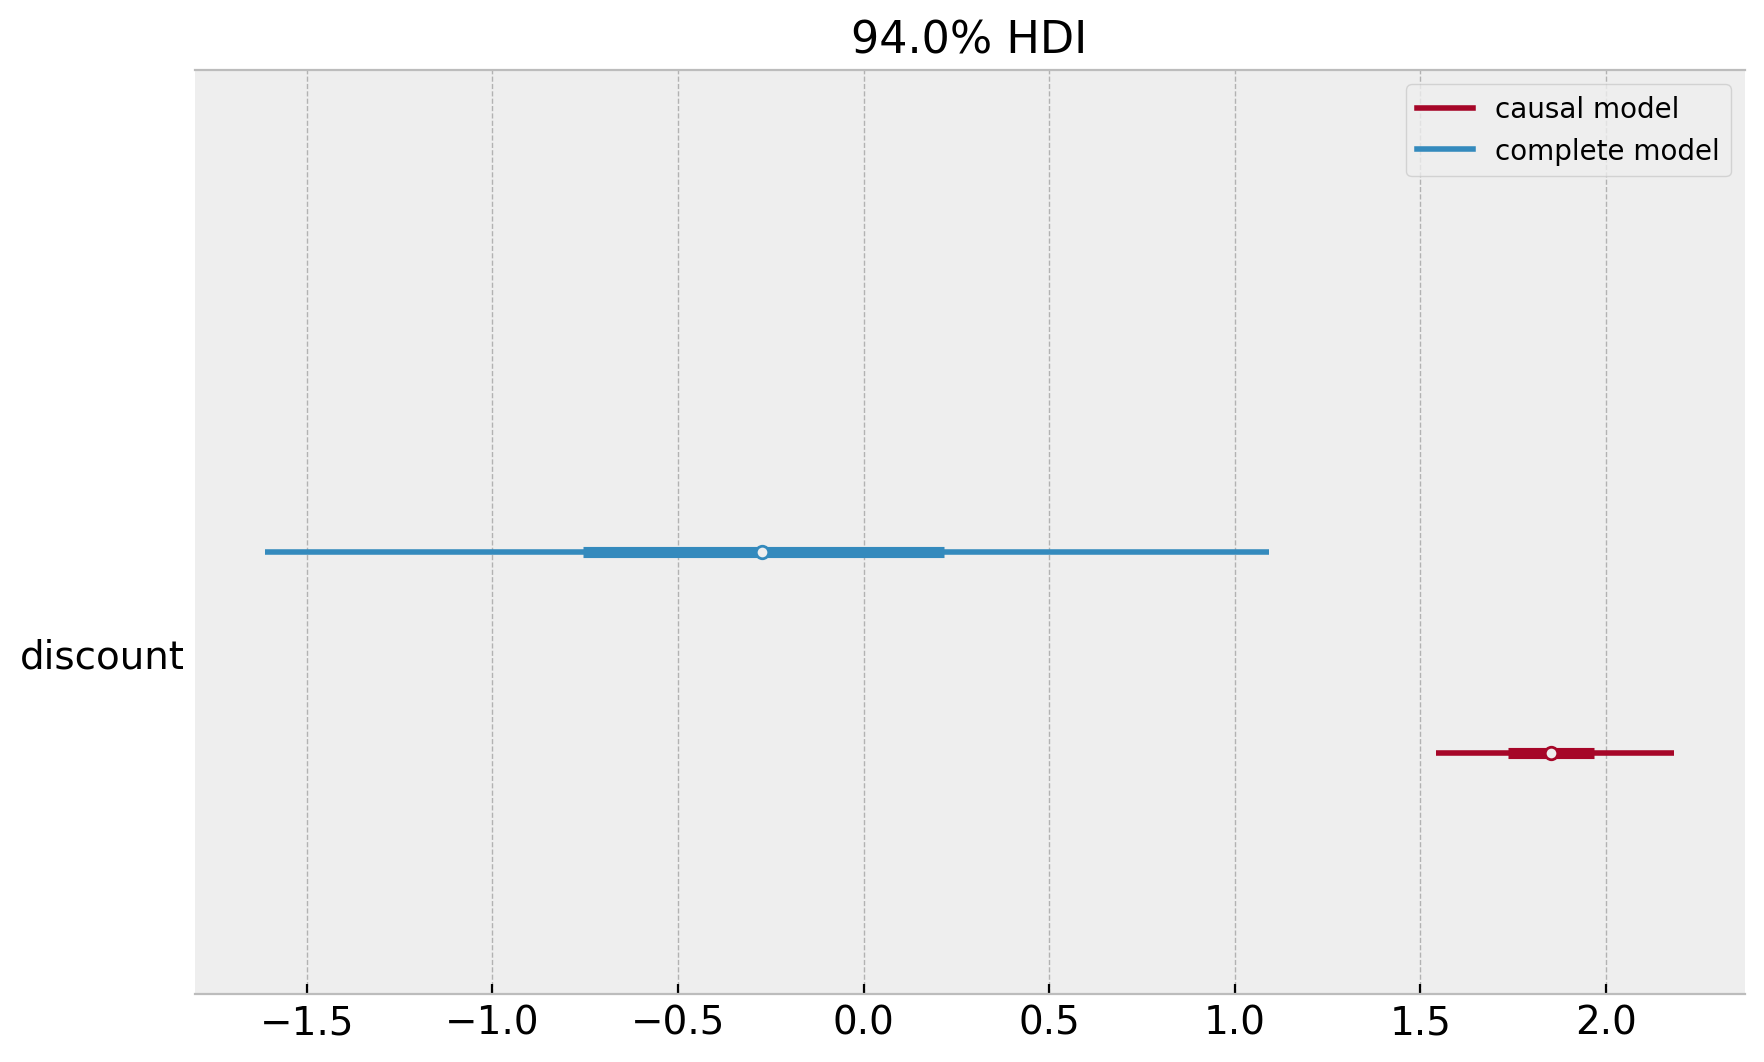
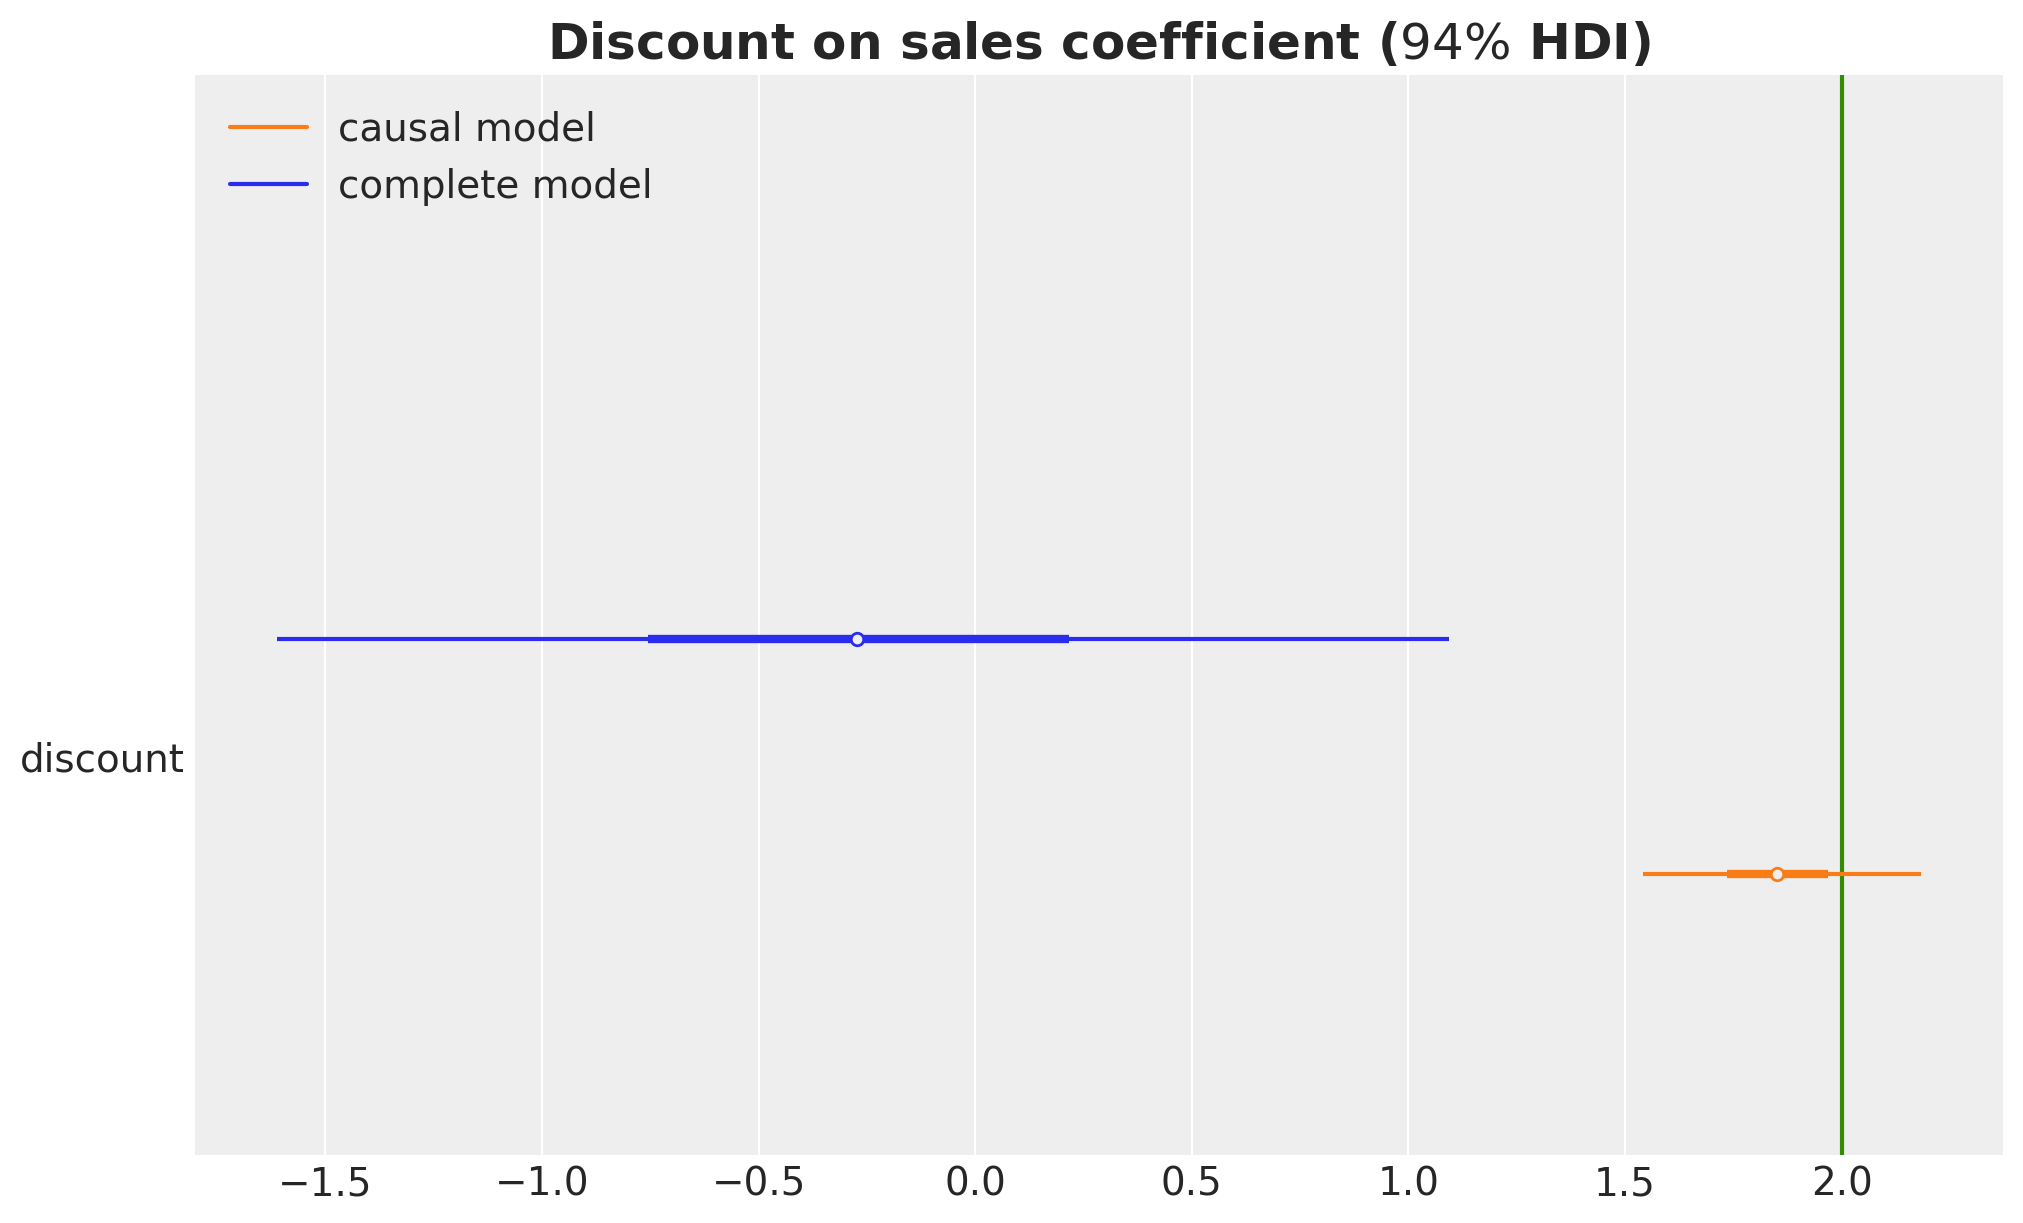
update code style causal inference example

diff --git a/causal_inference_example/index.html b/causal_inference_example/index.html
@@ -139,7 +139,7 @@ from sklearn.ensemble import GradientBoostingRegressor
 from sklearn.inspection import PartialDependenceDisplay
 from sklearn.model_selection import RandomizedSearchCV
 
-plt.style.use(&quot;bmh&quot;)
+z.style.use(&quot;arviz-darkgrid&quot;)
 plt.rcParams[&quot;figure.figsize&quot;] = [10, 6]
 plt.rcParams[&quot;figure.dpi&quot;] = 100
 plt.rcParams[&quot;figure.facecolor&quot;] = &quot;white&quot;
@@ -658,10 +658,10 @@ Name: sales, dtype: float64</code></pre>
 <pre class="python"><code>g = sns.displot(
     data=data, x=&quot;sales&quot;, kind=&quot;hist&quot;, kde=True, fill=True, height=5, aspect=1.5
 )
-g.fig.suptitle(&quot;Sales Distribution&quot;, y=1.05, fontsize=16)
+g.fig.suptitle(&quot;Sales Distribution&quot;, y=1.05, fontsize=18, fontweight=&quot;bold&quot;)
 </code></pre>
 <center>
-<img src="../images/causal_inference_example_files/causal_inference_example_19_1.png" style="width: 900px;"/>
+<img src="../images/causal_inference_example_files/causal_inference_example_19_2.png" style="width: 900px;"/>
 </center>
 </div>
 <div id="descriptive-statistics" class="section level2">
@@ -677,9 +677,11 @@ g.fig.suptitle(&quot;Sales Distribution&quot;, y=1.05, fontsize=16)
     height=5,
     aspect=1.5,
 )
-g.fig.suptitle(&quot;Sales Distribution by Discount Group&quot;, y=1.05, fontsize=16)</code></pre>
+g.fig.suptitle(
+    &quot;Sales Distribution by Discount Group&quot;, y=1.05, fontsize=18, fontweight=&quot;bold&quot;
+)</code></pre>
 <center>
-<img src="../images/causal_inference_example_files/causal_inference_example_22_1.png" style="width: 900px;"/>
+<img src="../images/causal_inference_example_files/causal_inference_example_22_2.png" style="width: 900px;"/>
 </center>
 <p>It looks customers with discount have higher sales. Data scientist A is optimistic with this initial result. To quantify this, they computed the difference in means:</p>
 <pre class="python"><code>data.groupby([&quot;discount&quot;]).agg({&quot;sales&quot;: &quot;mean&quot;})
@@ -745,9 +747,9 @@ discount
 <p>Wow! We see <span class="math inline">\(4.8\$\)</span> mean uplift! This is great news. The discount strategy seems to be working. Data scientist A is happy with the results and decides to get feedback from the rest of the data science team.</p>
 <p>Data scientist B is not so happy with the results. They think that the uplift is too good to be true (based on domain knowledge and the sales distributions 🤔). When thinking about reasons for such a high uplift, they realized the discount assignment was not at random. It was based on the number of web visits (remember the marketing plan?). This means that the discount group is not comparable to the control group completely! They decide to plot sales against web visits per discount group:</p>
 <pre class="python"><code>g = sns.relplot(data=data, x=&quot;visits&quot;, y=&quot;sales&quot;, hue=&quot;is_loyal&quot;, col=&quot;discount&quot;)
-g.fig.suptitle(&quot;Sales vs. Visits&quot;, y=1.05, fontsize=16)</code></pre>
+g.fig.suptitle(&quot;Sales vs. Visits&quot;, y=1.05, fontsize=18, fontweight=&quot;bold&quot;)</code></pre>
 <center>
-<img src="../images/causal_inference_example_files/causal_inference_example_27_1.png" style="width: 1000px;"/>
+<img src="../images/causal_inference_example_files/causal_inference_example_27_2.png" style="width: 1000px;"/>
 </center>
 <p>Indeed, they realize they should probably adjust for the number of web visits. A natural metric is sales per web visit. Let’s compute it:</p>
 <pre class="python"><code>data.groupby([&quot;discount&quot;]).agg({&quot;sales_per_visit&quot;: &quot;mean&quot;})
@@ -817,10 +819,13 @@ discount
     aspect=1.5,
 )
 g.fig.suptitle(
-    &quot;Sales per Web Visits Distribution by Discount Group&quot;, y=1.05, fontsize=16
+    &quot;Sales per Web Visits Distribution by Discount Group&quot;,
+    y=1.05,
+    fontsize=18,
+    fontweight=&quot;bold&quot;,
 )</code></pre>
 <center>
-<img src="../images/causal_inference_example_files/causal_inference_example_31_1.png" style="width: 900px;"/>
+<img src="../images/causal_inference_example_files/causal_inference_example_31_2.png" style="width: 900px;"/>
 </center>
 <p>For both data scientist the results look much better, but they were unsure about which uplift to report. They thought about the difference in means:</p>
 <pre class="python"><code>(
@@ -852,10 +857,12 @@ for i, ax in enumerate(g.axes.flatten()):
         )
         ax.legend(loc=&quot;upper right&quot;)
 
-g.fig.suptitle(&quot;Sales distribution by discount and loyalty&quot;, y=1.05, fontsize=16)
+g.fig.suptitle(
+    &quot;Sales distribution by discount and loyalty&quot;, y=1.05, fontsize=18, fontweight=&quot;bold&quot;
+)
 </code></pre>
 <center>
-<img src="../images/causal_inference_example_files/causal_inference_example_35_1.png" style="width: 1000px;"/>
+<img src="../images/causal_inference_example_files/causal_inference_example_35_2.png" style="width: 1000px;"/>
 </center>
 <p>Ok! This was shocking! They saw that for the loyal customers the sales are much (much!) higher for the non-discounted group! How could this be? Could it be that the discount strategy is working only for non-loyal customers? According to the plot above, filtering for non loyal customers would yield to a positive uplift:</p>
 <pre class="python"><code>(
@@ -889,10 +896,13 @@ for i, ax in enumerate(g.axes.flatten()):
         ax.legend(loc=&quot;upper right&quot;)
 
 g.fig.suptitle(
-    &quot;Sales per visit distribution by discount and loyalty&quot;, y=1.05, fontsize=16
+    &quot;Sales per visit distribution by discount and loyalty&quot;,
+    y=1.05,
+    fontsize=18,
+    fontweight=&quot;bold&quot;,
 )</code></pre>
 <center>
-<img src="../images/causal_inference_example_files/causal_inference_example_39_1.png" style="width: 1000px;"/>
+<img src="../images/causal_inference_example_files/causal_inference_example_39_2.png" style="width: 1000px;"/>
 </center>
 <p>This plots shows a different story! It seems that loyal customers do react positively to the discount strategy. Also, when just looking to the non-discounted group, they saw the loyal customers had a higher <code>sales_per_visit</code> value.</p>
 </div>
@@ -938,11 +948,11 @@ complete_model</code></pre>
             is_loyal ~ Normal(mu: 0.0, sigma: 5.0)
         
         Auxiliary parameters
-            sales_sigma ~ Exponential(lam: 0.5)</code></pre>
+            sigma ~ Exponential(lam: 0.5)</code></pre>
 <pre class="python"><code>complete_model.build()
 complete_model.graph()</code></pre>
 <center>
-<img src="../images/causal_inference_example_files/causal_inference_example_44_0.svg" style="width: 700px;"/>
+<img src="../images/causal_inference_example_files/causal_inference_example_44_0.svg" style="width: 800px;"/>
 </center>
 </div>
 <div id="prior-predictive-checks" class="section level3">
@@ -953,7 +963,7 @@ complete_model.graph()</code></pre>
 </code></pre>
 <pre class="python"><code>fig, ax = plt.subplots()
 az.plot_ppc(data=complete_model_prior_predictive, group=&quot;prior&quot;, kind=&quot;kde&quot;, ax=ax)
-ax.set(title=&quot;Complete Model - Prior Predictive&quot;)</code></pre>
+ax.set_title(label=&quot;Complete Model - Prior Predictive&quot;, fontsize=18, fontweight=&quot;bold&quot;)</code></pre>
 <center>
 <img src="../images/causal_inference_example_files/causal_inference_example_47_2.png" style="width: 900px;"/>
 </center>
@@ -1189,14 +1199,18 @@ visits
     kind=&quot;rank_bars&quot;,
     backend_kwargs={&quot;figsize&quot;: (10, 9), &quot;layout&quot;: &quot;constrained&quot;},
 )
-plt.gcf().suptitle(&quot;Complete Model - Trace&quot;, fontsize=16)</code></pre>
+plt.gcf().suptitle(&quot;Complete Model - Trace&quot;, fontsize=18, fontweight=&quot;bold&quot;)</code></pre>
 <center>
 <img src="../images/causal_inference_example_files/causal_inference_example_53_1.png" style="width: 1000px;"/>
 </center>
 <p>It seems the discount distribution contains zero and the posterior predictive mean effect is slightly negative. We can zoom in into the posterior distribution of the discount effect:</p>
 <pre class="python"><code>fig, ax = plt.subplots()
 az.plot_posterior(data=complete_model_idata, var_names=[&quot;discount&quot;], ref_val=0, ax=ax)
-</code></pre>
+ax.set_title(
+    label=&quot;Posterior distribution of discount coefficient - complete model&quot;,
+    fontsize=18,
+    fontweight=&quot;bold&quot;,
+)</code></pre>
 <center>
 <img src="../images/causal_inference_example_files/causal_inference_example_55_1.png" style="width: 900px;"/>
 </center>
@@ -1214,8 +1228,9 @@ az.plot_ppc(
     random_seed=seed,
     ax=ax,
 )
-ax.set(title=&quot;Complete Model - Posterior Predictive&quot;)
-</code></pre>
+ax.set_title(
+    label=&quot;Complete Model - Posterior Predictive&quot;, fontsize=18, fontweight=&quot;bold&quot;
+)</code></pre>
 <center>
 <img src="../images/causal_inference_example_files/causal_inference_example_59_1.png" style="width: 900px;"/>
 </center>
@@ -1324,12 +1339,12 @@ y_pred = ml_model.predict(X=X)
 fig, ax = plt.subplots(figsize=(7, 6))
 sns.scatterplot(x=y, y=y_pred, color=&quot;C0&quot;, alpha=0.7, ax=ax)
 ax.axline(xy1=(10, 10), slope=1, color=&quot;black&quot;, linestyle=&quot;--&quot;)
-ax.set(
-    title=&quot;ML Model - Actual vs Predicted Sales&quot;, xlabel=&quot;Actual&quot;, ylabel=&quot;Predicted&quot;
-)
-</code></pre>
+ax.set(xlabel=&quot;Actual&quot;, ylabel=&quot;Predicted&quot;)
+ax.set_title(
+    label=&quot;ML Model - Actual vs Predicted Sales&quot;, fontsize=18, fontweight=&quot;bold&quot;
+)</code></pre>
 <center>
-<img src="../images/causal_inference_example_files/causal_inference_example_64_1.png" style="width: 700px;"/>
+<img src="../images/causal_inference_example_files/causal_inference_example_64_1.png" style="width: 800px;"/>
 </center>
 <p>The predictions look ok. For example, the variance explained looks similar to the one from the linear model.</p>
 <p>Let’s move to the question of interest: the discount effect. The data scientist computed the partial dependency plot for the <code>discount</code> and <code>is_loyal</code> variables. They presented absolute and relative effects.</p>
@@ -1347,7 +1362,9 @@ for b in [False, True]:
         random_state=seed,
         ax=ax[int(b)],
     )
-fig.suptitle(&quot;ML Model - Partial Dependence Plots&quot;, y=1.05, fontsize=16)</code></pre>
+fig.suptitle(
+    &quot;ML Model - Partial Dependence Plots&quot;, y=1.05, fontsize=18, fontweight=&quot;bold&quot;
+)</code></pre>
 <center>
 <img src="../images/causal_inference_example_files/causal_inference_example_66_1.png" style="width: 1000px;"/>
 </center>
@@ -1428,11 +1445,11 @@ causal_model
             visits ~ Gamma(mu: 0.9, sigma: 0.3)
         
         Auxiliary parameters
-            sales_sigma ~ Exponential(lam: 0.5)</code></pre>
+            sigma ~ Exponential(lam: 0.5)</code></pre>
 <pre class="python"><code>causal_model.build()
 causal_model.graph()</code></pre>
 <center>
-<img src="../images/causal_inference_example_files/causal_inference_example_75_0.svg" style="width: 700px;"/>
+<img src="../images/causal_inference_example_files/causal_inference_example_75_0.svg" style="width: 800px;"/>
 </center>
 </div>
 <div id="prior-predictive-checks-1" class="section level3">
@@ -1444,7 +1461,7 @@ causal_model.graph()</code></pre>
 </code></pre>
 <pre class="python"><code>fig, ax = plt.subplots()
 az.plot_ppc(data=causal_model_prior_predictive, group=&quot;prior&quot;, kind=&quot;kde&quot;, ax=ax)
-ax.set(title=&quot;Causal Model - Prior Predictive&quot;)</code></pre>
+ax.set_title(label=&quot;Causal Model - Prior Predictive&quot;, fontsize=18, fontweight=&quot;bold&quot;)</code></pre>
 <center>
 <img src="../images/causal_inference_example_files/causal_inference_example_78_1.png" style="width: 900px;"/>
 </center>
@@ -1648,13 +1665,19 @@ visits
     kind=&quot;rank_bars&quot;,
     backend_kwargs={&quot;figsize&quot;: (10, 7), &quot;layout&quot;: &quot;constrained&quot;},
 )
-plt.gcf().suptitle(&quot;Causal Model - Trace&quot;, fontsize=16)</code></pre>
+plt.gcf().suptitle(&quot;Causal Model - Trace&quot;, fontsize=18, fontweight=&quot;bold&quot;)</code></pre>
 <center>
 <img src="../images/causal_inference_example_files/causal_inference_example_84_1.png" style="width: 1000px;"/>
 </center>
 <pre class="python"><code>fig, ax = plt.subplots()
 az.plot_posterior(data=causal_model_idata, var_names=[&quot;discount&quot;], ref_val=0, ax=ax)
-</code></pre>
+ax.axvline(x=2.0, color=&quot;C2&quot;, linestyle=&quot;-&quot;, label=&quot;True ATE&quot;)
+ax.legend(loc=&quot;upper left&quot;)
+ax.set_title(
+    &quot;Posterior distribution of discount coefficient - causal model&quot;,
+    fontsize=18,
+    fontweight=&quot;bold&quot;,
+)</code></pre>
 <center>
 <img src="../images/causal_inference_example_files/causal_inference_example_85_1.png" style="width: 900px;"/>
 </center>
@@ -1672,7 +1695,9 @@ az.plot_ppc(
     random_seed=seed,
     ax=ax,
 )
-ax.set(title=&quot;Causal Model - Posterior Predictive&quot;)</code></pre>
+ax.set_title(
+    label=&quot;Causal Model - Posterior Predictive&quot;, fontsize=18, fontweight=&quot;bold&quot;
+)</code></pre>
 <center>
 <img src="../images/causal_inference_example_files/causal_inference_example_89_1.png" style="width: 900px;"/>
 </center>
@@ -1683,17 +1708,19 @@ ax.set(title=&quot;Causal Model - Posterior Predictive&quot;)</code></pre>
 <h2>Discount Estimation Comparison</h2>
 <p>We can now compare the discount effect estimates from the complete (non-causal) linear model and the causal linear model.</p>
 <pre class="python"><code>fig, ax = plt.subplots()
-
-
+ax.axvline(x=2.0, color=&quot;C2&quot;, linestyle=&quot;-&quot;)
 az.plot_forest(
     data=[complete_model_idata, causal_model_idata],
     var_names=[&quot;discount&quot;],
     model_names=[&quot;complete model&quot;, &quot;causal model&quot;],
     combined=True,
     ax=ax,
+)
+ax.set_title(
+    label=r&quot;Discount on sales coefficient ($94\%$ HDI)&quot;, fontsize=18, fontweight=&quot;bold&quot;
 )</code></pre>
 <center>
-<img src="../images/causal_inference_example_files/causal_inference_example_92_1.png" style="width: 800px;"/>
+<img src="../images/causal_inference_example_files/causal_inference_example_92_1.png" style="width: 900px;"/>
 </center>
 <p>Here we can appreciate the negative consequence of adding the bad control variable <code>is_loyal</code>. Moreover, observe that adding more features to the model does not translate to variance reduction!</p>
 </div>
@@ -1708,6 +1735,7 @@ az.plot_forest(
 <li>Machine learning models are not always the solution for applied data science problems.</li>
 <li>Inference and prediction tasks are different (see <a href="https://matheusfacure.github.io/python-causality-handbook/18-Heterogeneous-Treatment-Effects-and-Personalization.html">here</a> for another use case showing this).</li>
 </ul>
+<p><strong>Remark:</strong> In many ways this example is an over-simplification of a real world application. In practice, one is more interested in the <em>conditional average treatment effect</em>, to identify users which are more likely to be influenced by the treatment. This is a more complex problem, which requires more data and more sophisticated models. See for example <a href="https://juanitorduz.github.io/uplift/">PyConDE &amp; PyData Berlin 2022: Introduction to Uplift Modeling</a> and <a href="https://towardsdatascience.com/beyond-churn-prediction-and-churn-uplift-45225e5a7541">Beyond Churn Prediction and Churn Uplift</a>). However, the main message of this example still holds: understanding the data generating process and the assumptions behind it is crucial for causal inference.</p>
 </div>
 <div id="appending-a-causal-inference-software" class="section level2">
 <h2>Appending A: Causal Inference Software</h2>
@@ -1801,9 +1829,13 @@ No such variable(s) found!</code></pre>
 <pre class="python"><code>model._graph.get_backdoor_paths(nodes1=[&quot;discount&quot;], nodes2=[&quot;sales&quot;])</code></pre>
 <pre><code>[[&#39;discount&#39;, &#39;visits&#39;, &#39;sales&#39;]]</code></pre>
 <p>We can also check for valid control sets:</p>
-<pre class="python"><code>model._graph.check_valid_backdoor_set(nodes1=[&quot;discount&quot;], nodes2=[&quot;sales&quot;], nodes3=[&quot;visits&quot;])</code></pre>
+<pre class="python"><code>model._graph.check_valid_backdoor_set(
+    nodes1=[&quot;discount&quot;], nodes2=[&quot;sales&quot;], nodes3=[&quot;visits&quot;]
+)</code></pre>
 <pre><code>{&#39;is_dseparated&#39;: True}</code></pre>
-<pre class="python"><code>model._graph.check_valid_backdoor_set(nodes1=[&quot;discount&quot;], nodes2=[&quot;sales&quot;], nodes3=[&quot;is_loyal&quot;])</code></pre>
+<pre class="python"><code>model._graph.check_valid_backdoor_set(
+    nodes1=[&quot;discount&quot;], nodes2=[&quot;sales&quot;], nodes3=[&quot;is_loyal&quot;]
+)</code></pre>
 <pre><code>{&#39;is_dseparated&#39;: False}</code></pre>
 <p>After selecting the estimand, we can proceed to estimate the causal effect:</p>
 <pre class="python"><code>estimate = model.estimate_effect(
@@ -1870,7 +1902,11 @@ PartialDependenceDisplay.from_estimator(
     random_state=seed,
     ax=ax,
 )
-ax.set(title=&quot;ML Model (Causal) - Partial Dependence Plot (Centered)&quot;)</code></pre>
+ax.set_title(
+    label=&quot;ML Model (Causal) - Partial Dependence Plot (Centered)&quot;,
+    fontsize=18,
+    fontweight=&quot;bold&quot;,
+)</code></pre>
 <center>
 <img src="../images/causal_inference_example_files/causal_inference_example_119_1.png" style="width: 900px;"/>
 </center>
